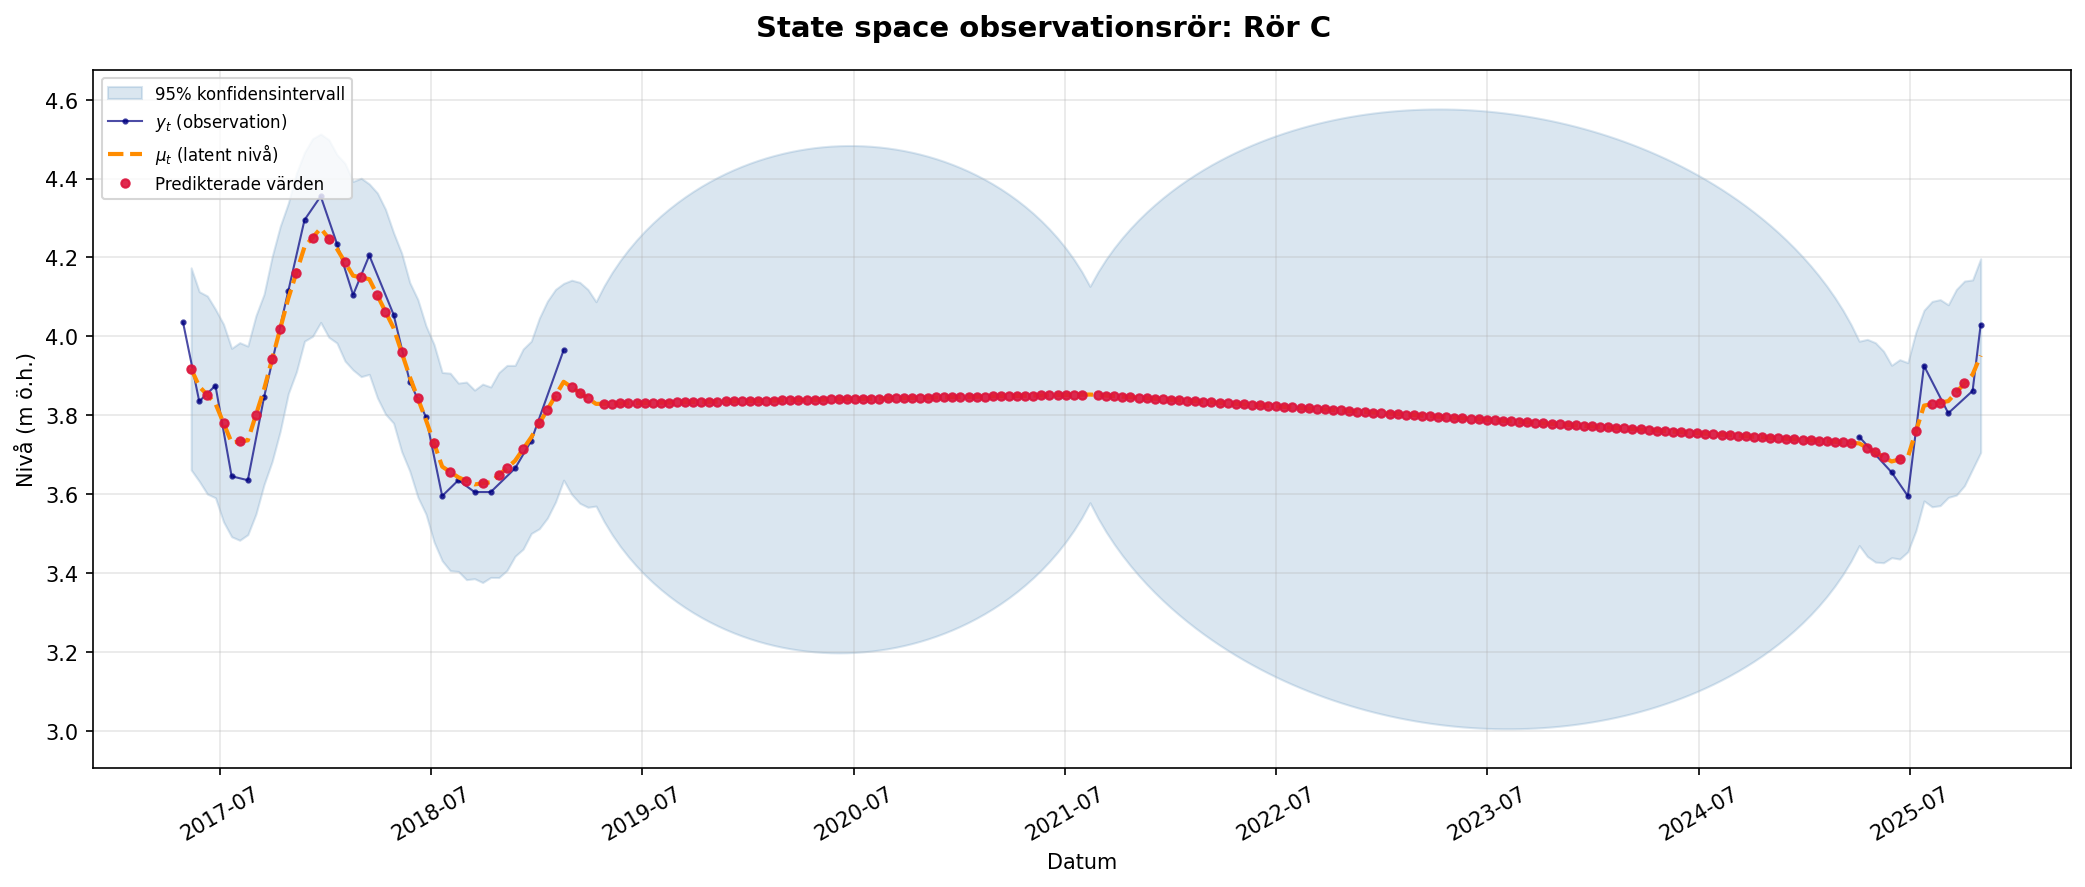
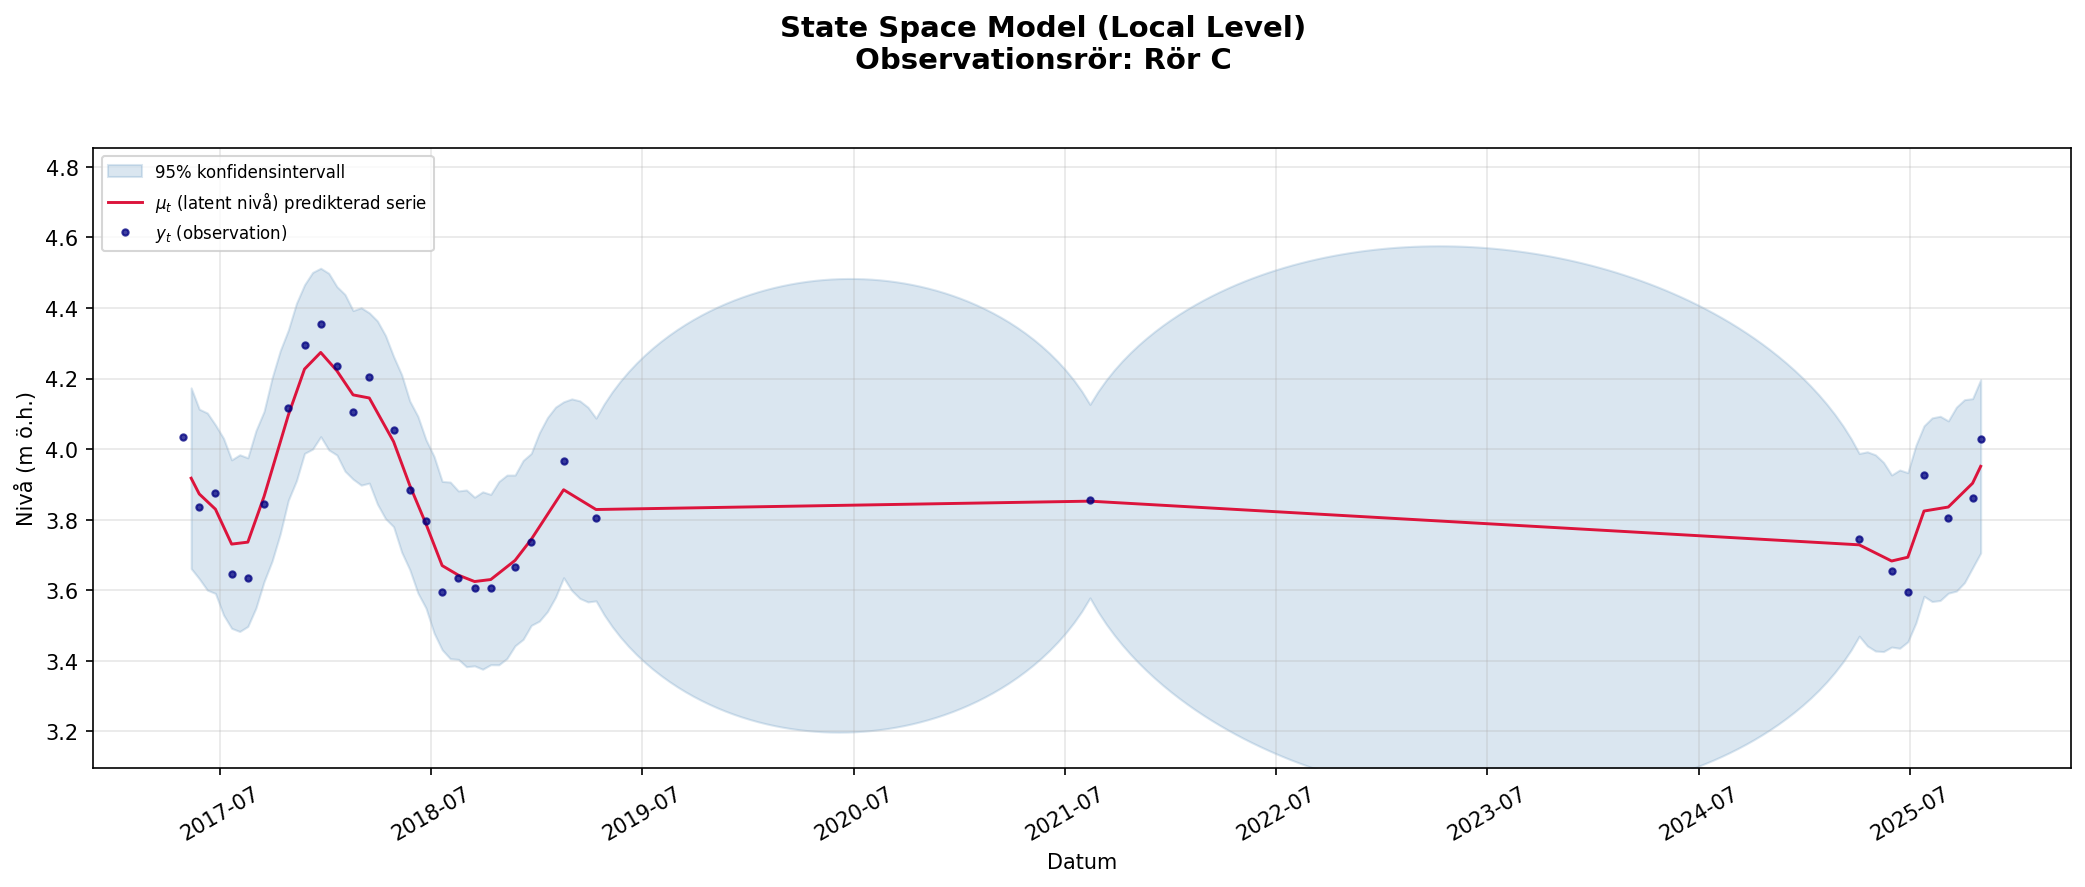
Updated file paths and improved plot aesthetics in results visualization

diff --git a/kandidatuppsats_endast_basror.py b/kandidatuppsats_endast_basror.py
@@ -88,7 +88,7 @@ class LocalLevel(MLEModel):
 #får in alla filer på samma ställe som detta skript
 basror_22W102  = Path(__file__).parent / "22W102.csv"
 basror_17XX01U = Path(__file__).parent / "17XX01U.csv"
-basror_G1101   = Path(__file__).parent / "G1101.csv"
+basror_G1101   = Path("/home/angelica/Hämtningar/obs2.csv")
 
 #nedan ser vi att observationsrör 22W102=rör A, G1101=rör B, 17XX01U=rör C
 STATIONS = [
@@ -276,7 +276,8 @@ def plot_results(
 
     fig, ax = plt.subplots(figsize=(14, 6))
     fig.suptitle(
-        f"State space observationsrör: {station_id}",
+        "State Space Model (Local Level)\n"
+        f"Observationsrör: {station_id}",
         fontsize=14, fontweight="bold",
     )
 
@@ -300,66 +301,43 @@ def plot_results(
         label="95% konfidensintervall",
     )
 
-    # y_t — observerad nivå (linje)
-    # y_t — observerad nivå
-    obs_valid = ~np.isnan(obs)
-    obs_dates = idx[obs_valid]
-    obs_vals = obs[obs_valid]
-
-    # Dra linje bara mellan observationer som ligger nära varandra
-    # Beräkna max tillåtet gap (3x mediangapet)
-    if len(obs_dates) > 1:
-        gaps = np.diff(obs_dates).astype("timedelta64[D]").astype(float)
-        max_gap = np.median(gaps) * 3
-        # Sätt NaN i serien där gapet är för stort → bryter linjen
-        obs_plot = obs_vals.copy()
-        for i in range(1, len(gaps)):
-            if gaps[i] > max_gap:
-                obs_plot[i] = np.nan  # bryter linjen här
-    else:
-        obs_plot = obs_vals
-
-    ax.plot(
-        obs_dates, obs_plot,
-        "o-", color="navy", linewidth=1.0, ms=2, alpha=0.7,
-        label=r"$y_t$ (observation)",
-    )
-
     # μ_t — smoothad latent nivå
     ax.plot(
         idx, smoothed,
-        color="darkorange", linewidth=2.0, linestyle="--",
-        label=r"$\mu_t$ (latent nivå)",
+        linestyle="-", linewidth=1.4, color="crimson",
+        label=r"$\mu_t$ (latent nivå) predikterad serie",
     )
 
-    # Imputerade värden (smoothed level där observation saknas)
-    obs_missing = np.isnan(obs)
-    if np.any(obs_missing):
-        ax.plot(
-            idx[obs_missing], smoothed[obs_missing],
-            "o", color="crimson", ms=4, alpha=0.9,
-            label="Predikterade värden",
-        )
+    # y_t — observerad nivå (enbart prickar)
+    obs_valid = ~np.isnan(obs)
+    ax.plot(
+        idx[obs_valid], obs[obs_valid],
+        "o", color="navy", markersize=3, alpha=0.75,
+        label=r"$y_t$ (observation)",
+    )
 
-    ax.set_ylabel("Nivå (m ö.h.)")
     ax.set_xlabel("Datum")
+    ax.set_ylabel("Nivå (m ö.h.)")
     ax.legend(loc="upper left", fontsize=8)
-    ax.xaxis.set_major_formatter(mdates.DateFormatter("%Y-%m"))
-    # Anpassa x-axelns intervall efter tidsspannets längd
+
+    # Datumaxel
     n_months = (idx[-1] - idx[0]).days / 30
     interval = max(4, int(n_months / 8))
+    ax.xaxis.set_major_formatter(mdates.DateFormatter("%Y-%m"))
     ax.xaxis.set_major_locator(mdates.MonthLocator(interval=interval))
     plt.setp(ax.xaxis.get_majorticklabels(), rotation=30)
-    ax.grid(alpha=0.3)
 
-    # Begränsa y-axeln till rimliga värden (inkludera CI-bandet)
-    all_vals = np.concatenate([obs[~np.isnan(obs)], ci_lower[~np.isnan(ci_lower)], ci_upper[~np.isnan(ci_upper)]])
+    ax.grid(True, alpha=0.3)
+
+    # Fast ±0.5 marginal på y-axeln
+    all_vals = pd.concat([
+        pd.Series(obs[~np.isnan(obs)]),
+        pd.Series(smoothed[~np.isnan(smoothed)]),
+    ]).dropna()
     if len(all_vals) > 0:
-        margin = (all_vals.max() - all_vals.min()) * 0.05
-        margin = max(margin, 0.1)
-        ax.set_ylim(all_vals.min() - margin, all_vals.max() + margin)
+        ax.set_ylim(all_vals.min() - 0.5, all_vals.max() + 0.5)
 
-    plt.tight_layout()
+    plt.tight_layout(rect=[0, 0, 1, 0.95])
     return fig
 
 
